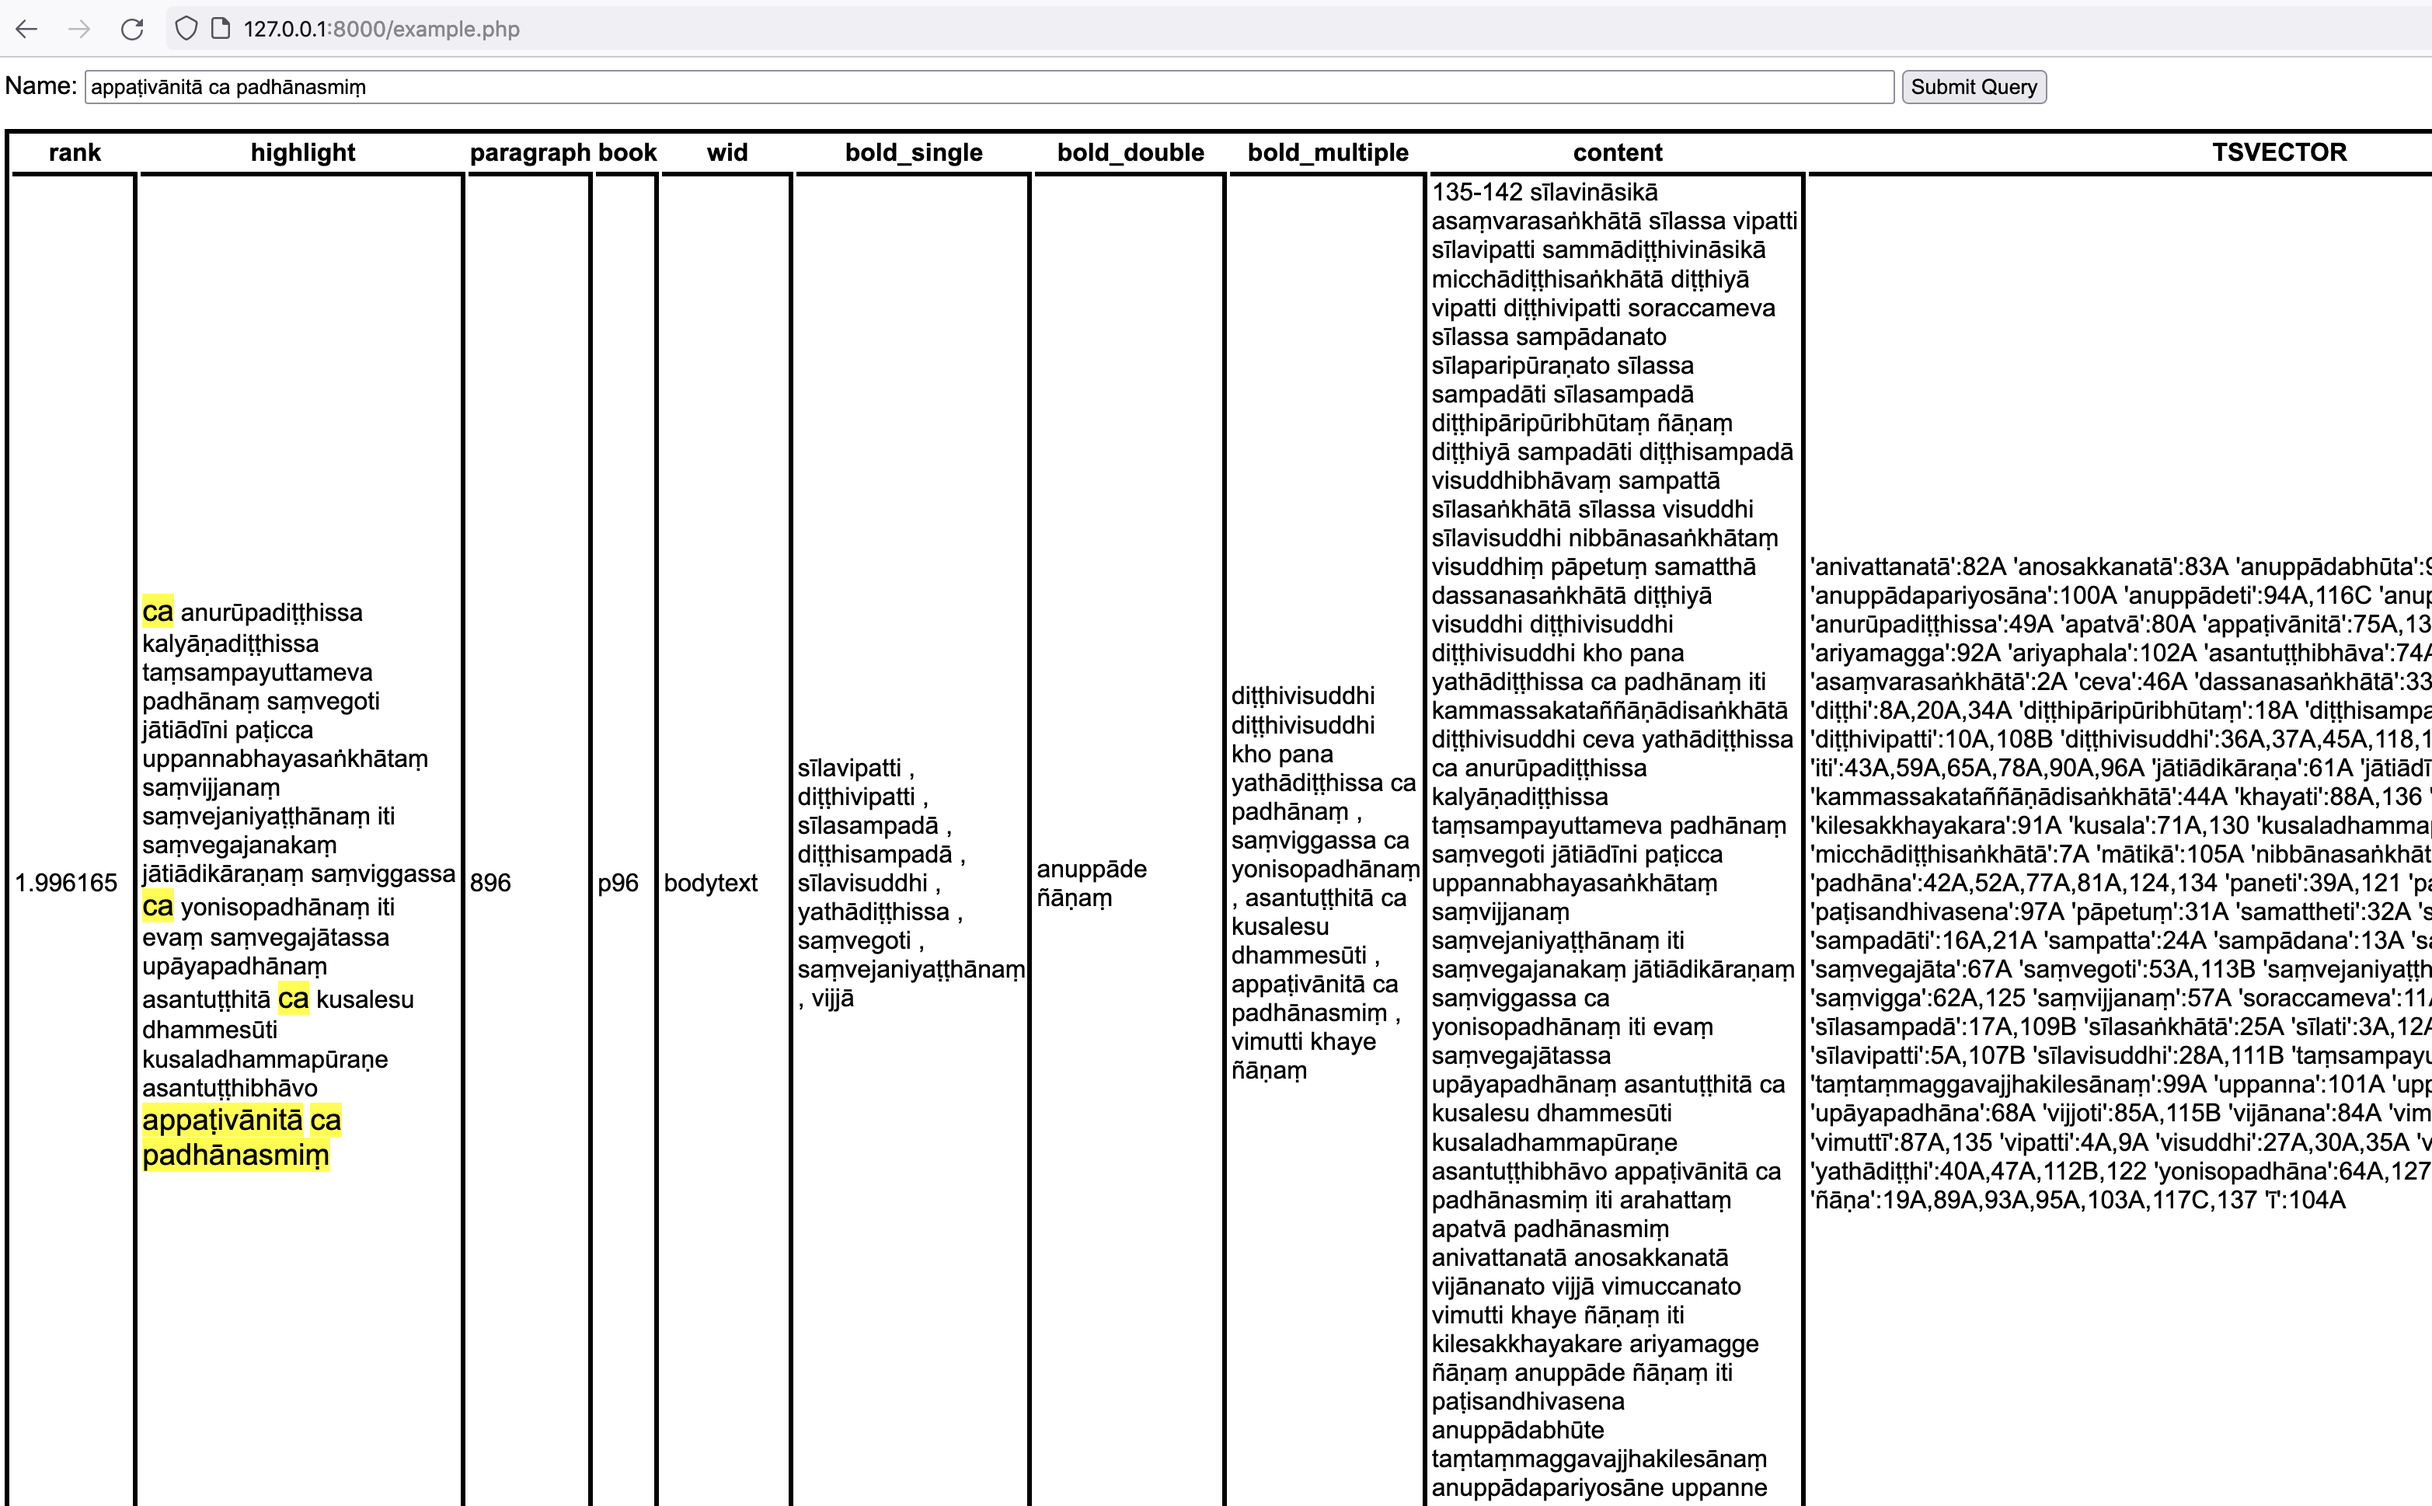
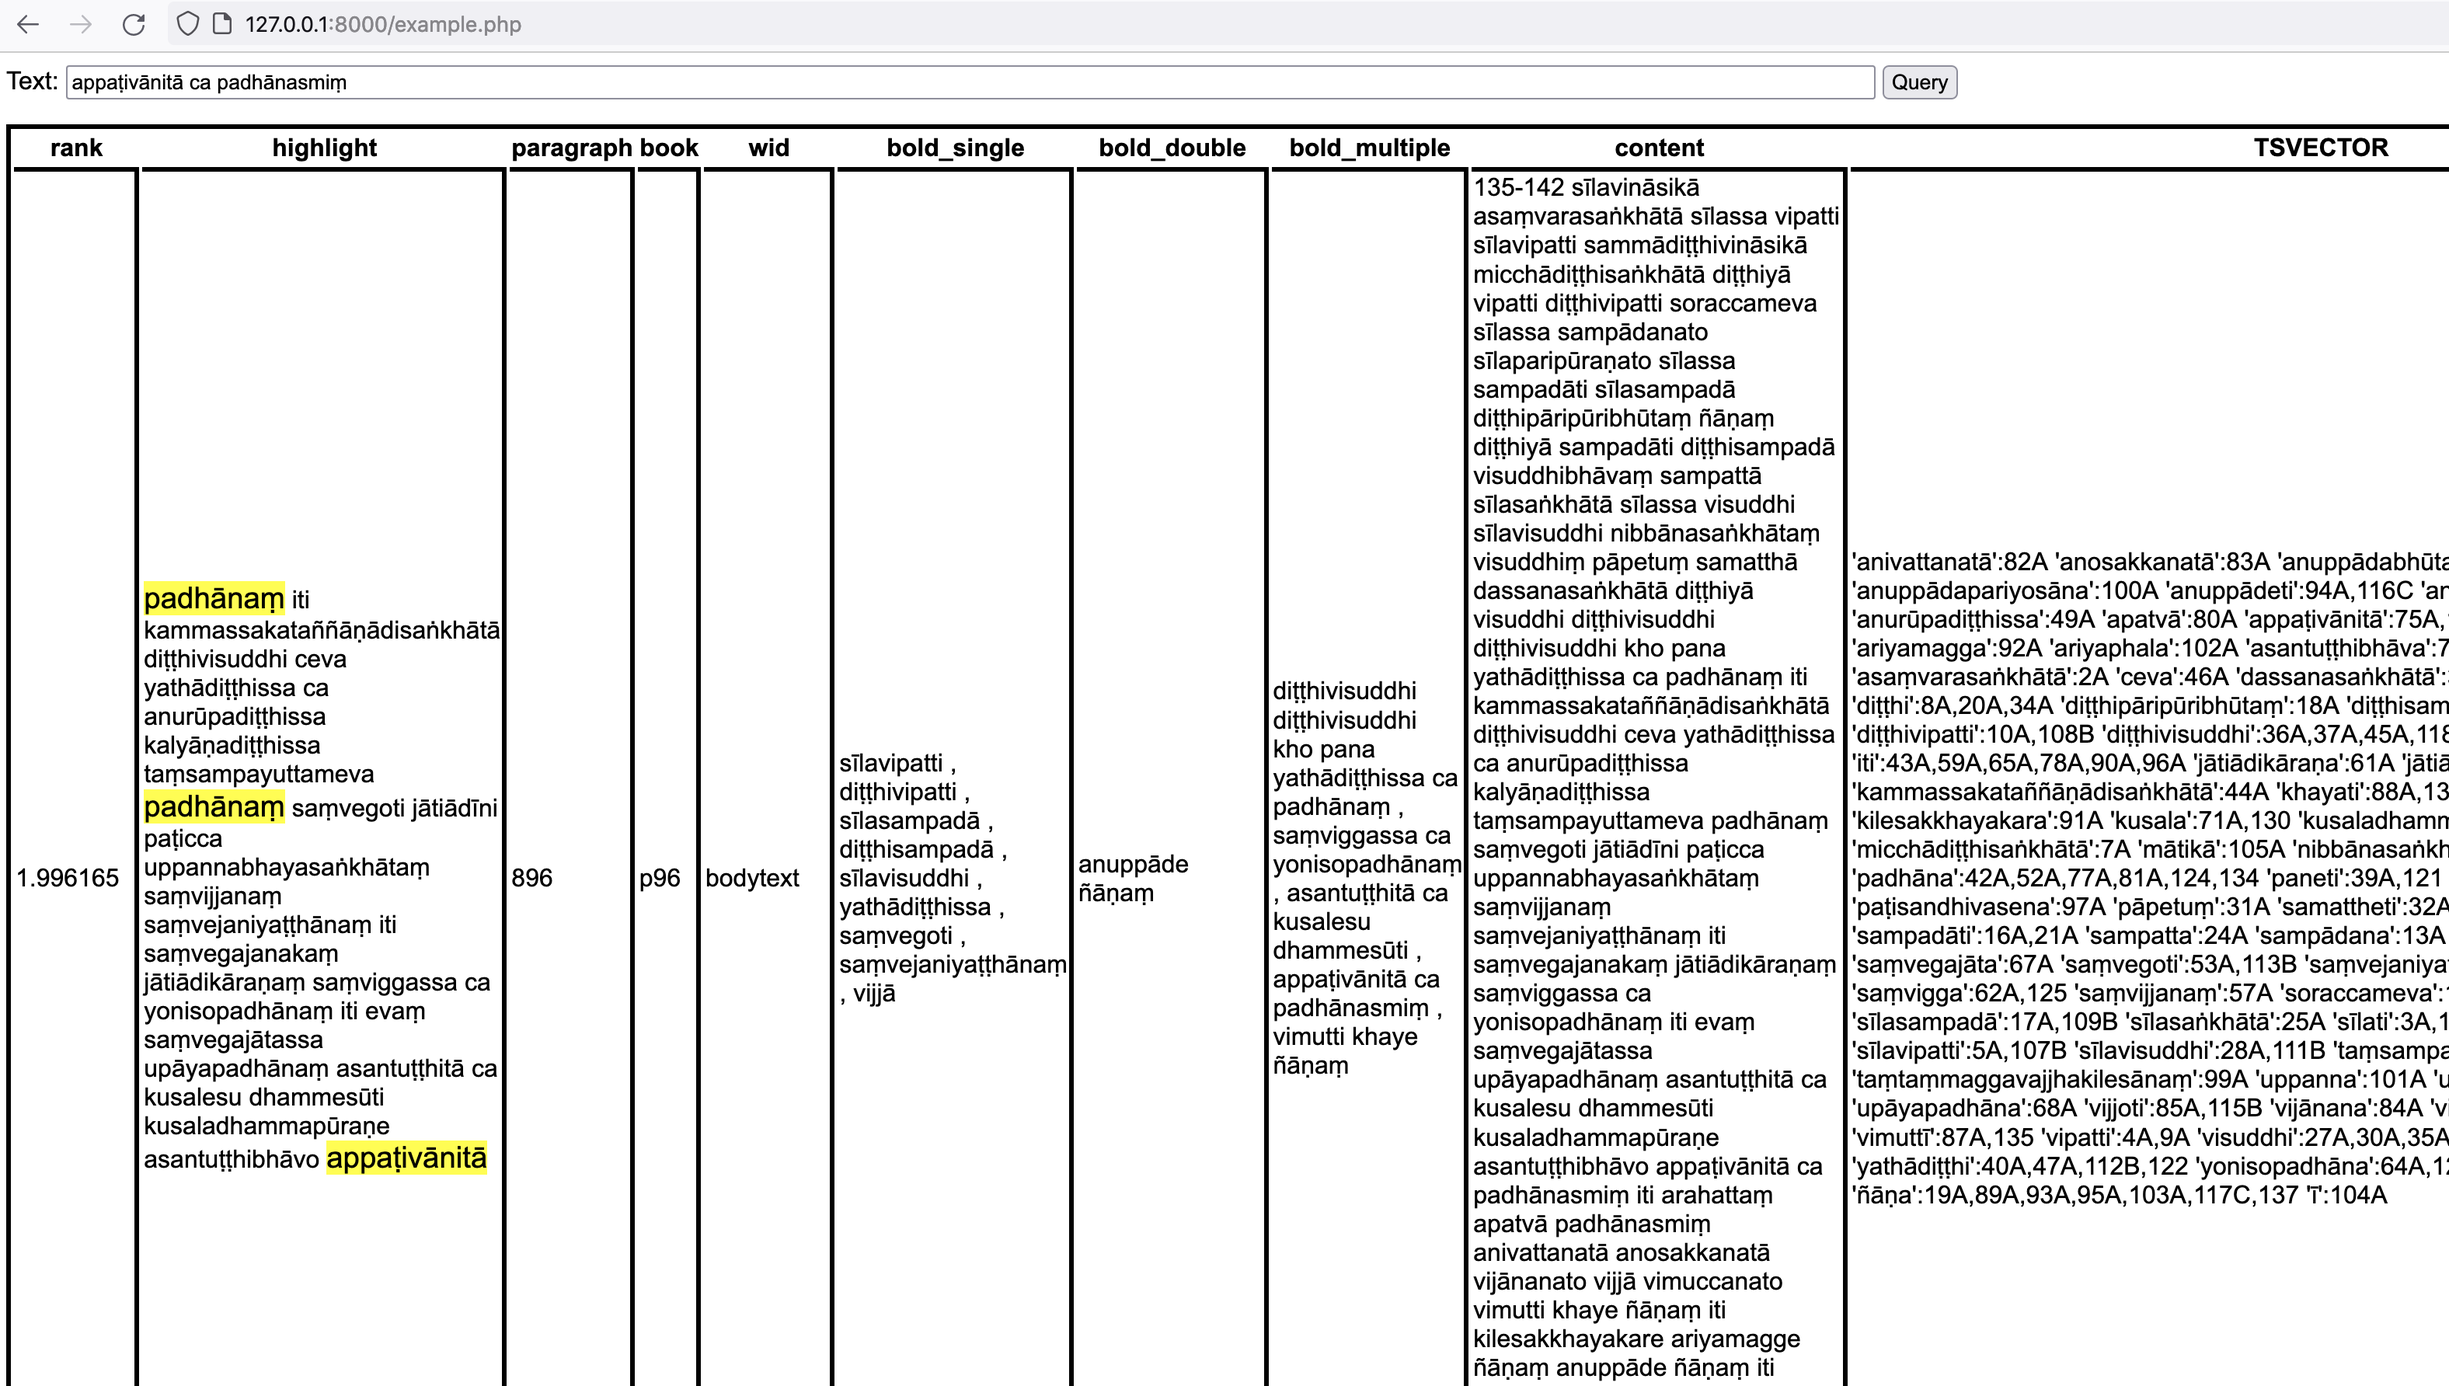
:children_crossing: 优化检索结果，支持变格单词高亮

Changed region(s): [[0.0, 0.0, 1.0, 1.0]]

diff --git a/app/fts/example.php b/app/fts/example.php
@@ -33,8 +33,8 @@
     }
     ?>
     <form method="post" action="<?php echo $_SERVER['PHP_SELF'];?>">
-      Name: <input type="text" name="q" value="<?php echo $q ?>">
-      <input type="submit">
+      Text: <input type="text" name="q" value="<?php echo $q ?>">
+      <input type="submit" value="Query">
     </form>
     <?php
     if (empty($q)) {
@@ -53,8 +53,8 @@
                      full_text_search_weighted_unaccent,
                      websearch_to_tsquery('pali_unaccent', '$q'))
                  AS rank,
-                 ts_headline('simple', content,
-                              websearch_to_tsquery('simple', '$q'),
+                 ts_headline('pali', content,
+                              websearch_to_tsquery('pali', '$q'),
                               'StartSel = <span>, StopSel = </span>')
                  AS highlight,
                  *
